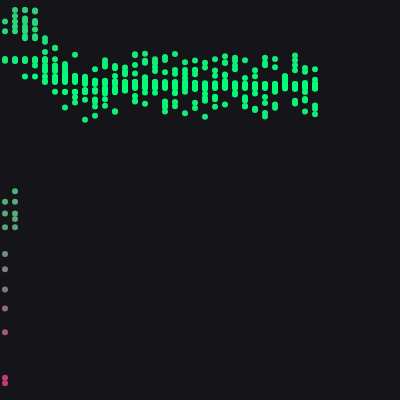
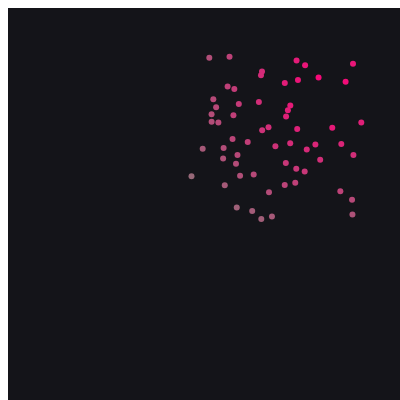
fix: day06 title, revert day29

diff --git a/19-veille-et-culture-numerique/sketches/day29.js b/19-veille-et-culture-numerique/sketches/day29.js
@@ -1,44 +1,21 @@
 // #29 magnetic cells (prompt: genetic evolution and mutation)
 window.sketches[29] = (p) => {
-  // toy ga: a population's trait drifts toward a target across generations,
-  // plotted left (gen 0) to right (latest gen) so the whole canvas fills up
-  const GENS = 40;
-  const POP = 14;
-  const target = 0.8;
-  let history = []; // one array of trait values per generation
-
+  // dots evolve toward a target point over generations, simple ga-like drift
+  let pop = [];
+  const target = { x: 320, y: 80 };
   p.setup = () => {
     p.createCanvas(400, 400);
-    let gen = [];
-    for (let i = 0; i < POP; i++) gen.push(p.random());
-    history.push(gen);
+    for (let i = 0; i < 60; i++) pop.push({ x: p.random(400), y: p.random(400) });
   };
-
-  const nextGen = (gen) => {
-    // keep the fittest half, mutate the rest around them
-    const sorted = [...gen].sort((a, b) => Math.abs(a - target) - Math.abs(b - target));
-    const keep = sorted.slice(0, POP / 2);
-    const next = [...keep];
-    while (next.length < POP) {
-      const parent = keep[Math.floor(p.random(keep.length))];
-      next.push(p.constrain(parent + p.random(-0.08, 0.08), 0, 1));
-    }
-    return next;
-  };
-
   p.draw = () => {
-    if (history.length < GENS && p.frameCount % 4 === 0) {
-      history.push(nextGen(history[history.length - 1]));
-    }
     p.background(20, 20, 25);
     p.noStroke();
-    const colW = 400 / GENS;
-    history.forEach((gen, gi) => {
-      gen.forEach((trait) => {
-        const fit = 1 - Math.abs(trait - target);
-        p.fill(255 * (1 - fit), 255 * fit, 120);
-        p.circle(gi * colW + colW / 2, 400 - trait * 380 - 10, 6);
-      });
-    });
+    for (const dot of pop) {
+      dot.x += (target.x - dot.x) * 0.01 + p.random(-2, 2);
+      dot.y += (target.y - dot.y) * 0.01 + p.random(-2, 2);
+      const fit = 1 - p.dist(dot.x, dot.y, target.x, target.y) / 400;
+      p.fill(255 * fit, 255 * (1 - fit), 120);
+      p.circle(dot.x, dot.y, 6);
+    }
   };
 };

diff --git a/19-veille-et-culture-numerique/chatbot.js b/19-veille-et-culture-numerique/chatbot.js
@@ -77,7 +77,7 @@ const SKETCH_INFO = {
   3: { title: "fibonacci forever", prompt: "fibonacci forever", tech: "spirale", note: "cercles dont le rayon suit fibonacci." },
   4: { title: "lowres", prompt: "lowres", tech: "bruit de perlin en gros pixels", note: "" },
   5: { title: "genuary", prompt: 'write "genuary" without a font', tech: "rects assemblés", note: "pas de police, juste des rectangles." },
-  6: { title: "lights", prompt: "lights on / off", tech: "grille + bruit dans le temps", note: "" },
+  6: { title: "blinding lights", prompt: "lights on / off", tech: "grille + bruit dans le temps", note: "" },
   7: { title: "venn", prompt: "boolean algebra", tech: "blend mode difference", note: "deux cercles qui font un faux xor." },
   8: { title: "city", prompt: "a city", tech: "isométrique", note: "cubes empilés, hauteur au bruit de perlin." },
   9: { title: "matrix eating amoeba", prompt: "crazy automaton", tech: "automate cellulaire", note: "jeu de la vie, c'est mon préféré." },

diff --git a/19-veille-et-culture-numerique/sketches/day06.js b/19-veille-et-culture-numerique/sketches/day06.js
@@ -1,4 +1,4 @@
-// #6 lights (prompt: lights on / off)
+// #6 blinding lights (prompt: lights on / off)
 window.sketches[6] = (p) => {
   // grid of cells, on/off driven by a slow noise field
   let cells = 16;

diff --git a/19-veille-et-culture-numerique/main.js b/19-veille-et-culture-numerique/main.js
@@ -41,7 +41,7 @@ const TITLES = [
   "fibonacci forever",
   "lowres",
   "genuary",
-  "lights",
+  "blinding lights",
   "venn",
   "city",
   "matrix eating amoeba",
